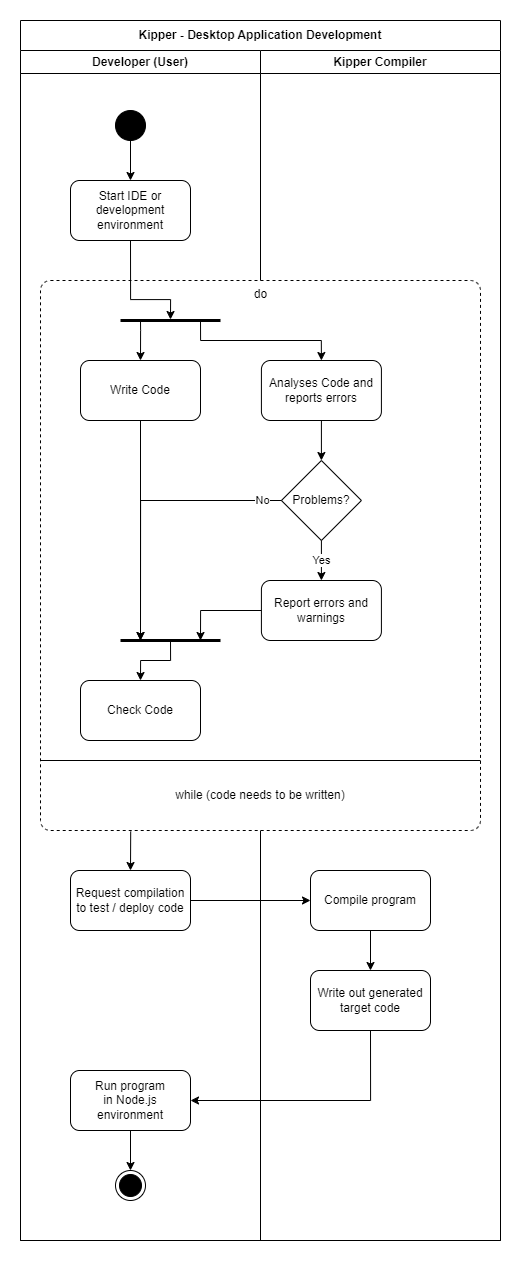
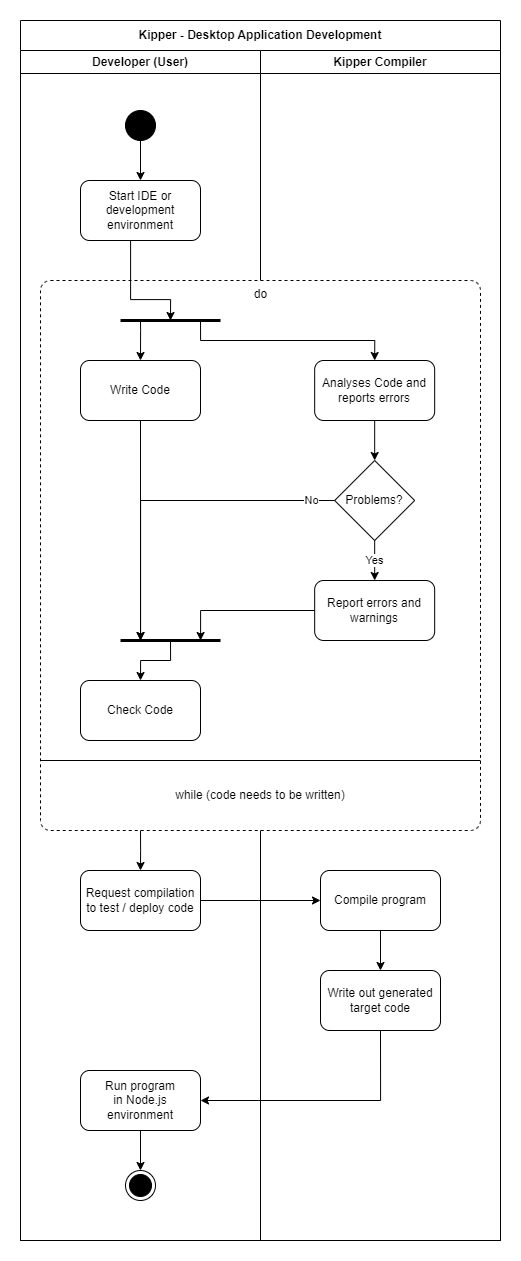
Updated last ACDs according to the issues explained in #2

diff --git a/Systemspezifikation.md b/Systemspezifikation.md
@@ -251,7 +251,7 @@ Im Falle des CLI Tools werden die Dateien sofort kompiliert und auch ausgeführt
 spezifizieren zu müssen, da es im gleichen Prozess den generierten Code einfach mithilfe einer JavaScript Runtime
 ausführt.
 
-![Kipper-Running-Kipper-Application.png](./img/Kipper-Running-Kipper-Application.png)
+![Kipper-Running-Kipper-Application.png](./img/Kipper-Running-Kipper-Application-ACD.png)
 
 ## 3. Nicht-funktionale Anforderungen
 
